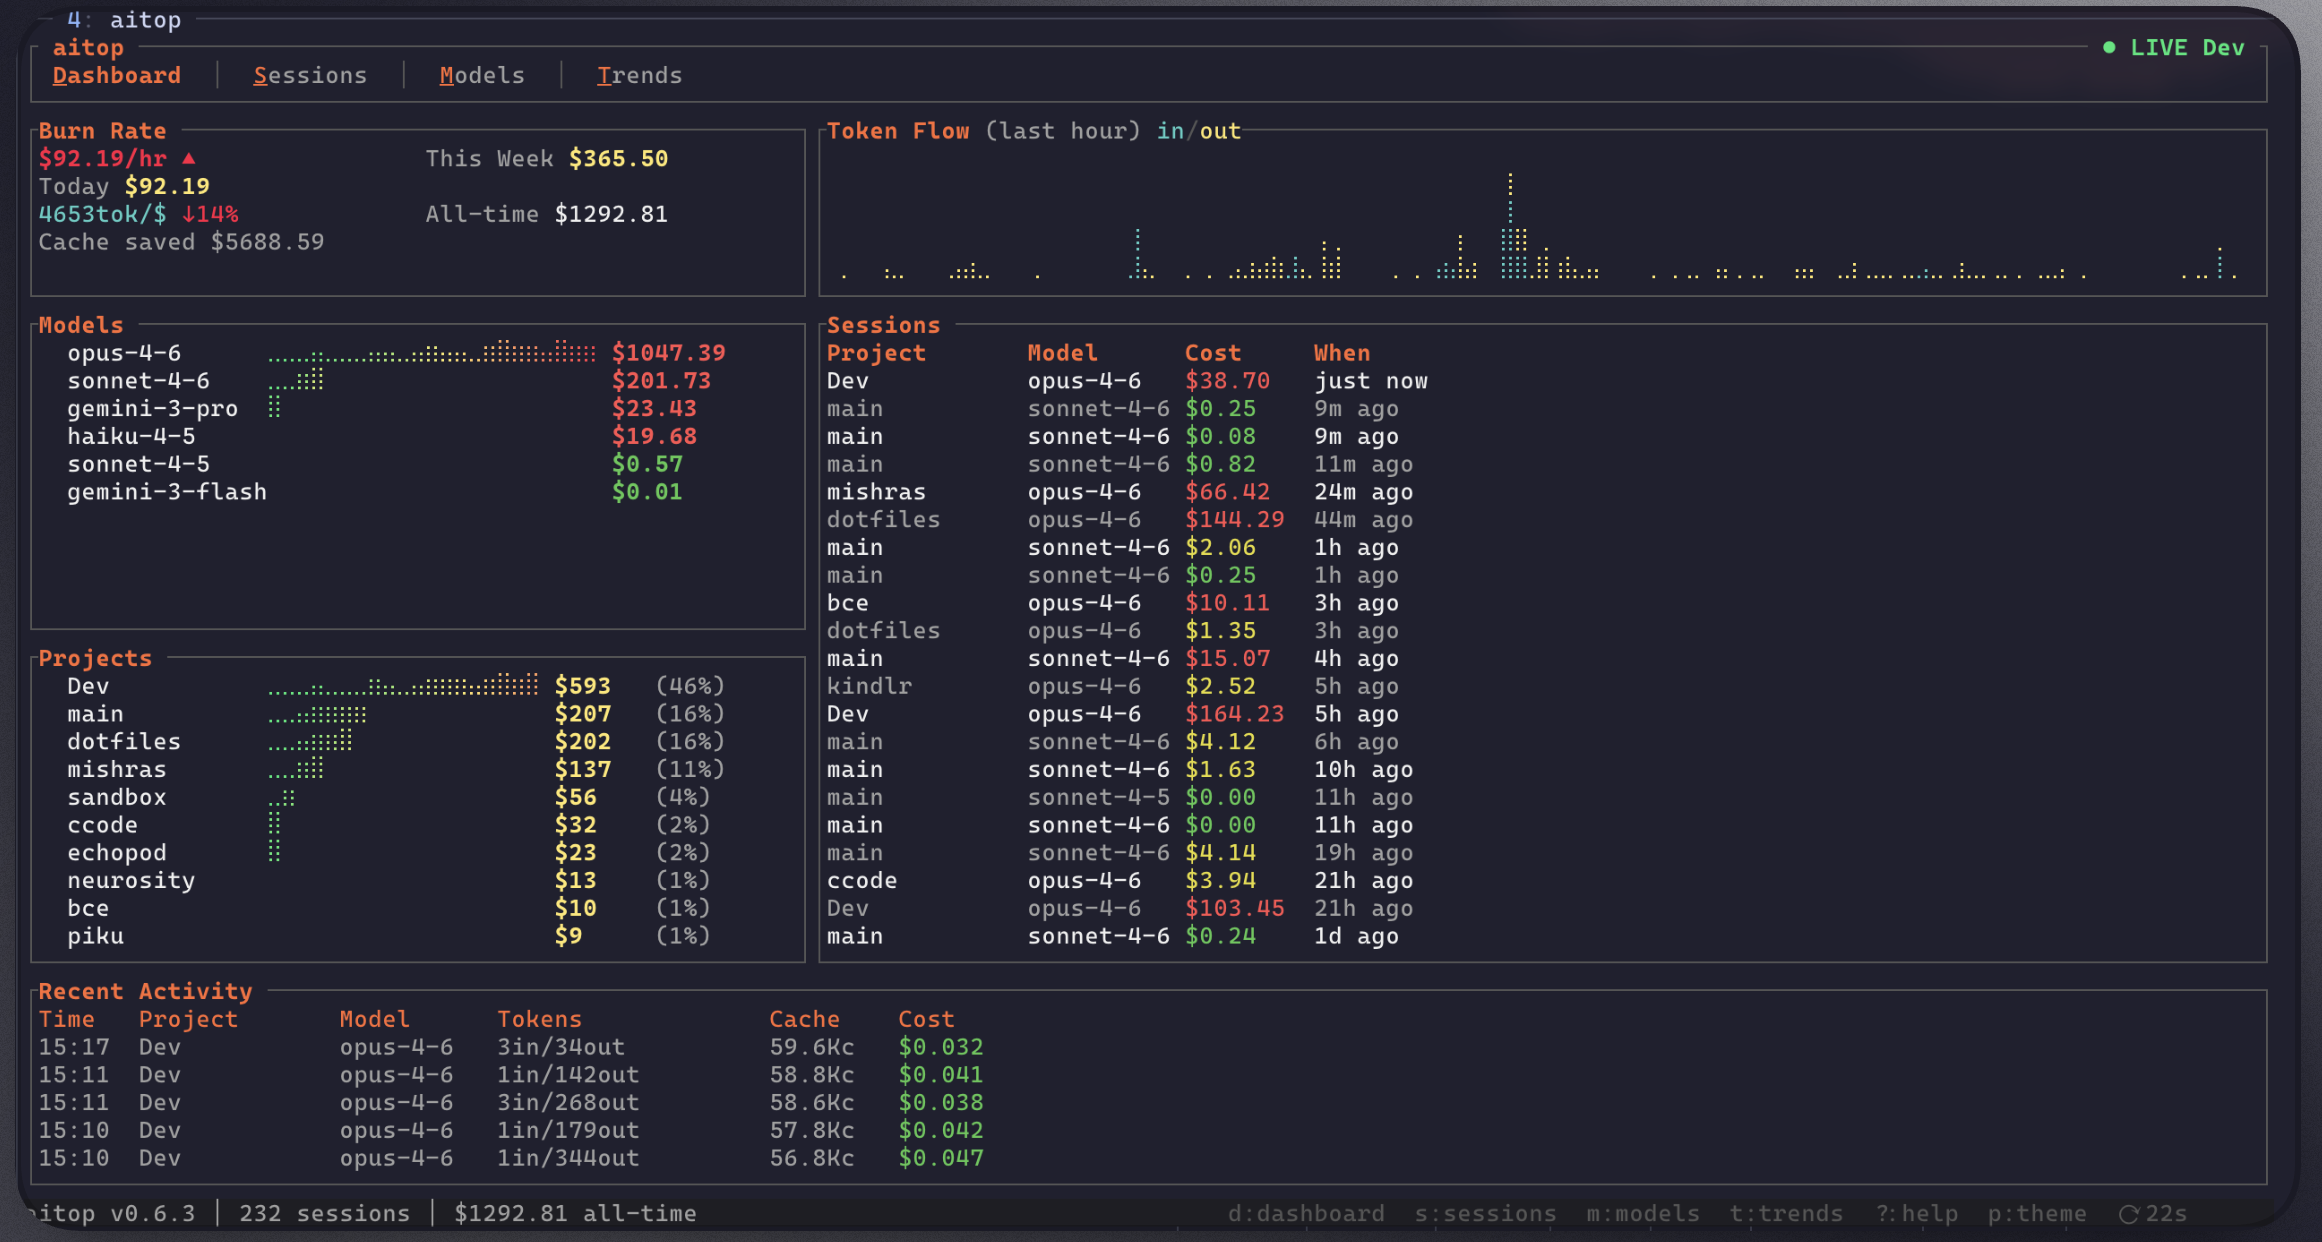
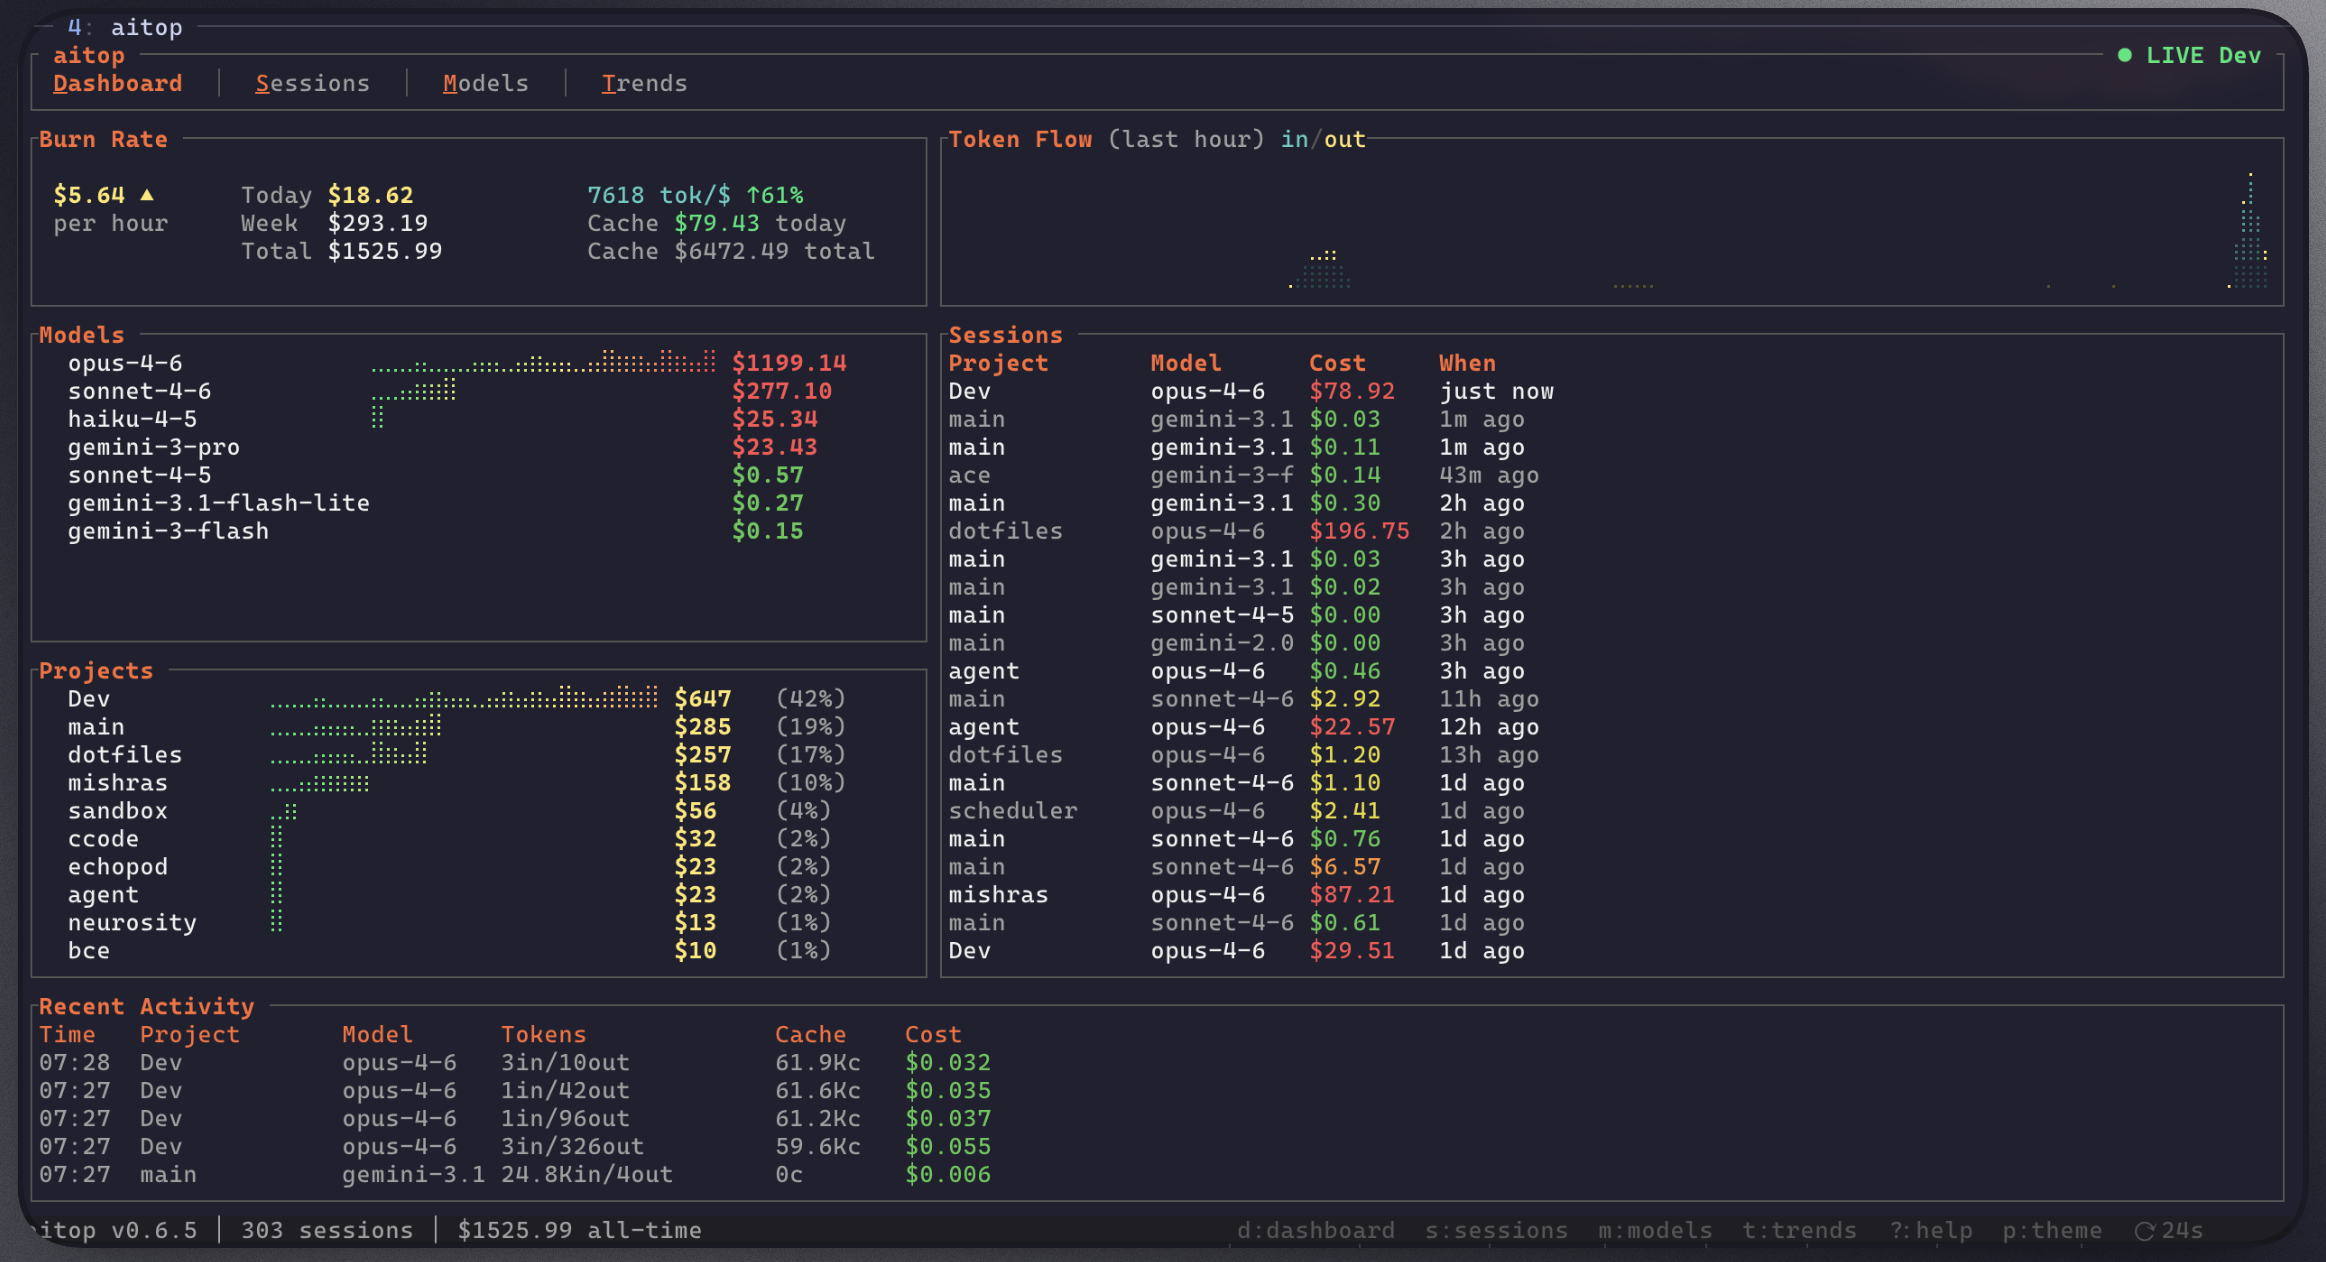
Redesign burn rate card, split cache savings today/total

diff --git a/src/ui/dashboard.rs b/src/ui/dashboard.rs
@@ -89,8 +89,8 @@ fn render_delta_banner(f: &mut Frame, state: &AppState, theme: &Theme, area: Rec
 
 fn render_metrics(f: &mut Frame, state: &AppState, theme: &Theme, area: ratatui::layout::Rect) {
     let stats = &state.dashboard;
+    let eff = &state.efficiency;
 
-    let burn_arrow = if stats.burn_rate_per_hour > 0.0 { "\u{25B2}" } else { "\u{00B7}" };
     let burn_color = if stats.burn_rate_per_hour > 10.0 {
         theme.danger
     } else if stats.burn_rate_per_hour > 5.0 {
@@ -107,33 +107,94 @@ fn render_metrics(f: &mut Frame, state: &AppState, theme: &Theme, area: ratatui:
     let inner = block.inner(area);
     f.render_widget(block, area);
 
+    // 3-column layout: hero burn rate | spend breakdown | efficiency
     let cols = Layout::default()
         .direction(Direction::Horizontal)
-        .constraints([Constraint::Percentage(50), Constraint::Percentage(50)])
+        .constraints([
+            Constraint::Length(13),     // burn rate hero
+            Constraint::Percentage(40), // spend grid
+            Constraint::Percentage(50), // efficiency (wider — cache values can be long)
+        ])
         .split(inner);
 
-    // Left: burn rate + efficiency
-    let eff = &state.efficiency;
-    let eff_arrow = if eff.efficiency_change_pct > 0.0 { "\u{2191}" } else if eff.efficiency_change_pct < 0.0 { "\u{2193}" } else { "" };
-    let eff_color = if eff.efficiency_change_pct >= 0.0 { theme.success } else { theme.danger };
-
-    let burn_text = vec![
+    // Column 1: Hero burn rate
+    let burn_arrow = if stats.burn_rate_per_hour > 0.0 { " \u{25B2}" } else { "" };
+    let hero = vec![
+        Line::from(""),
         Line::from(vec![
             Span::styled(
-                format!("${:.2}/hr {}", stats.burn_rate_per_hour, burn_arrow),
+                format!(" ${:.2}", stats.burn_rate_per_hour),
                 Style::default().fg(burn_color).add_modifier(Modifier::BOLD),
             ),
+            Span::styled(burn_arrow, Style::default().fg(burn_color)),
         ]),
         Line::from(vec![
-            Span::styled("Today ", Style::default().fg(theme.text_dim)),
+            Span::styled(" per hour", Style::default().fg(theme.text_dim)),
+        ]),
+    ];
+    f.render_widget(Paragraph::new(hero), cols[0]);
+
+    // Column 2: Spend breakdown (vertically centered)
+    let mut spend_lines = vec![
+        Line::from(""),
+        Line::from(vec![
+            Span::styled(" Today ", Style::default().fg(theme.text_dim)),
             Span::styled(
                 format!("${:.2}", stats.spend_today),
                 Style::default().fg(theme.tertiary).add_modifier(Modifier::BOLD),
             ),
         ]),
         Line::from(vec![
+            Span::styled(" Week  ", Style::default().fg(theme.text_dim)),
             Span::styled(
-                format!("{:.0}tok/$", eff.tokens_per_dollar),
+                format!("${:.2}", stats.spend_this_week),
+                Style::default().fg(theme.text),
+            ),
+        ]),
+    ];
+
+    if let Some(budget) = state.config.weekly_budget {
+        let pct = (stats.spend_this_week / budget).min(1.0);
+        let gauge_color = if pct < 0.60 {
+            theme.success
+        } else if pct < 0.85 {
+            theme.tertiary
+        } else {
+            theme.danger
+        };
+        let bar_total = 10usize;
+        let filled = ((pct * bar_total as f64) as usize).min(bar_total);
+        let empty = bar_total - filled;
+        spend_lines.push(Line::from(vec![
+            Span::styled(" ", Style::default()),
+            Span::styled("\u{2588}".repeat(filled), Style::default().fg(gauge_color)),
+            Span::styled("\u{2591}".repeat(empty), Style::default().fg(theme.bar_empty)),
+            Span::styled(
+                format!(" {:.0}%", pct * 100.0),
+                Style::default().fg(gauge_color),
+            ),
+        ]));
+    } else {
+        spend_lines.push(Line::from(vec![
+            Span::styled(" Total ", Style::default().fg(theme.text_dim)),
+            Span::styled(
+                format!("${:.2}", stats.spend_all_time),
+                Style::default().fg(theme.text),
+            ),
+        ]));
+    }
+
+    f.render_widget(Paragraph::new(spend_lines), cols[1]);
+
+    // Column 3: Efficiency stats
+    let eff_arrow = if eff.efficiency_change_pct > 0.0 { "\u{2191}" } else if eff.efficiency_change_pct < 0.0 { "\u{2193}" } else { "" };
+    let eff_color = if eff.efficiency_change_pct >= 0.0 { theme.success } else { theme.danger };
+
+    let eff_lines = vec![
+        Line::from(""),
+        Line::from(vec![
+            Span::styled(
+                format!(" {:.0} tok/$", eff.tokens_per_dollar),
                 Style::default().fg(theme.secondary),
             ),
             Span::styled(
@@ -146,62 +207,23 @@ fn render_metrics(f: &mut Frame, state: &AppState, theme: &Theme, area: ratatui:
             ),
         ]),
         Line::from(vec![
+            Span::styled(" Cache ", Style::default().fg(theme.text_dim)),
             Span::styled(
-                format!("Cache saved ${:.2}", eff.cache_savings_usd),
+                format!("${:.2}", eff.cache_savings_today),
+                Style::default().fg(theme.success),
+            ),
+            Span::styled(" today", Style::default().fg(theme.text_dim)),
+        ]),
+        Line::from(vec![
+            Span::styled(" Cache ", Style::default().fg(theme.text_dim)),
+            Span::styled(
+                format!("${:.2}", eff.cache_savings_alltime),
                 Style::default().fg(theme.text_dim),
             ),
+            Span::styled(" total", Style::default().fg(theme.text_dim)),
         ]),
     ];
-    f.render_widget(Paragraph::new(burn_text), cols[0]);
-
-    // Right: week spend + budget gauge
-    let mut right_lines = vec![
-        Line::from(vec![
-            Span::styled("This Week ", Style::default().fg(theme.text_dim)),
-            Span::styled(
-                format!("${:.2}", stats.spend_this_week),
-                Style::default().fg(theme.tertiary).add_modifier(Modifier::BOLD),
-            ),
-        ]),
-        Line::from(""),
-    ];
-
-    if let Some(budget) = state.config.weekly_budget {
-        let pct = (stats.spend_this_week / budget).min(1.0);
-        let pct_int = (pct * 100.0) as u16;
-        let gauge_color = if pct < 0.60 {
-            theme.success
-        } else if pct < 0.85 {
-            theme.tertiary
-        } else {
-            theme.danger
-        };
-
-        let bar_total = 12usize;
-        let filled = ((pct * bar_total as f64) as usize).min(bar_total);
-        let empty = bar_total - filled;
-        let bar_filled: String = "\u{2588}".repeat(filled);
-        let bar_empty: String = "\u{2591}".repeat(empty);
-
-        right_lines.push(Line::from(vec![
-            Span::styled("Budget ", Style::default().fg(theme.text_dim)),
-            Span::styled(bar_filled, Style::default().fg(gauge_color)),
-            Span::styled(bar_empty, Style::default().fg(theme.bar_empty)),
-            Span::styled(
-                format!(" {}% (${:.0} / ${:.0})", pct_int, stats.spend_this_week, budget),
-                Style::default().fg(gauge_color),
-            ),
-        ]));
-    } else {
-        right_lines.push(Line::from(vec![
-            Span::styled("All-time ", Style::default().fg(theme.text_dim)),
-            Span::styled(
-                format!("${:.2}", stats.spend_all_time),
-                Style::default().fg(theme.text)),
-        ]));
-    }
-
-    f.render_widget(Paragraph::new(right_lines), cols[1]);
+    f.render_widget(Paragraph::new(eff_lines), cols[2]);
 }
 
 fn render_token_flow(f: &mut Frame, state: &AppState, theme: &Theme, area: Rect) {
@@ -261,9 +283,13 @@ fn render_token_flow(f: &mut Frame, state: &AppState, theme: &Theme, area: Rect)
         data[i].1 * (1.0 - t) + data[i + 1].1 * t
     };
 
-    // Pre-compute stacked heights per character column: (input_h, total_h)
-    let mut col_info: Vec<(usize, usize)> = vec![(0, 0); w];
+    // Pre-compute stacked heights per character column: (input_share, total_h)
+    // input_share is the fraction of total that is input (0.0–1.0)
+    let mut col_info: Vec<(f64, usize)> = vec![(0.0, 0); w];
     for (char_col, info) in col_info.iter_mut().enumerate() {
+        let mut max_total = 0usize;
+        let mut sum_iv = 0.0f64;
+        let mut sum_total = 0.0f64;
         for dc in 0..2 {
             let x = char_col * 2 + dc;
             if x >= dot_cols { continue; }
@@ -271,9 +297,12 @@ fn render_token_flow(f: &mut Frame, state: &AppState, theme: &Theme, area: Rect)
             let ov = interpolate(&chart_data.output_data, x);
             let ih = (iv / y_max * dot_rows as f64).round() as usize;
             let oh = (ov / y_max * dot_rows as f64).round() as usize;
-            info.0 = info.0.max(ih);
-            info.1 = info.1.max(ih + oh);
+            max_total = max_total.max(ih + oh);
+            sum_iv += iv;
+            sum_total += iv + ov;
         }
+        info.0 = if sum_total > 0.0 { sum_iv / sum_total } else { 0.0 };
+        info.1 = max_total;
     }
 
     let dot_bits: [[u16; 4]; 2] = [
@@ -284,7 +313,7 @@ fn render_token_flow(f: &mut Frame, state: &AppState, theme: &Theme, area: Rect)
     let mut lines = Vec::with_capacity(h);
     for char_row in 0..h {
         let mut spans = Vec::new();
-        for (char_col, &(input_h, total_h)) in col_info.iter().enumerate() {
+        for (char_col, &(input_share, total_h)) in col_info.iter().enumerate() {
             let mut braille: u16 = 0x2800;
             let mut has_data = false;
 
@@ -308,15 +337,16 @@ fn render_token_flow(f: &mut Frame, state: &AppState, theme: &Theme, area: Rect)
 
             let ch = char::from_u32(braille as u32).unwrap_or(' ');
             let color = if has_data {
-                let cell_center = dot_rows.saturating_sub(char_row * 4 + 2);
-                // Input region (bottom) = teal, output region (top) = gold
-                let (base_color, region_bot, region_h) = if cell_center < input_h {
-                    (theme.secondary, 0, input_h)
+                // Color boundary based on actual input share of total
+                let cell_bottom = dot_rows.saturating_sub((char_row + 1) * 4);
+                let input_boundary = (input_share * total_h as f64).round() as usize;
+                let cell_center = cell_bottom + 2;
+                let (base_color, region_bot, region_h) = if cell_center < input_boundary {
+                    (theme.secondary, 0, input_boundary)
                 } else {
-                    (theme.tertiary, input_h, total_h.saturating_sub(input_h))
+                    (theme.tertiary, input_boundary, total_h.saturating_sub(input_boundary))
                 };
                 // Brightness gradient within region: dim at bottom, bright at top
-                let cell_bottom = dot_rows.saturating_sub((char_row + 1) * 4);
                 let pos = cell_bottom.saturating_sub(region_bot);
                 let t = if region_h > 0 { (pos as f64 / region_h as f64).clamp(0.0, 1.0) } else { 1.0 };
                 dim_color(base_color, 0.35 + t * 0.65)

diff --git a/src/data/aggregator.rs b/src/data/aggregator.rs
@@ -119,7 +119,8 @@ pub struct EfficiencyStats {
     pub tokens_per_dollar: f64,
     pub tokens_per_dollar_last_week: f64,
     pub efficiency_change_pct: f64,
-    pub cache_savings_usd: f64,
+    pub cache_savings_today: f64,
+    pub cache_savings_alltime: f64,
 }
 
 /// Daily token count for the token overlay in trends.
@@ -602,28 +603,42 @@ impl Aggregator {
         };
 
         // Cache savings: compute per-model using the pricing registry
-        let mut cache_stmt = self.conn.prepare(
-            "SELECT COALESCE(model, 'unknown'), COALESCE(SUM(cache_read), 0)
-             FROM messages
-             WHERE model IS NOT NULL
-             GROUP BY model",
-        )?;
-        let cache_rows = cache_stmt
-            .query_map([], |row| {
+        let compute_cache_savings = |filter: &str| -> f64 {
+            let sql = format!(
+                "SELECT COALESCE(model, 'unknown'), COALESCE(SUM(cache_read), 0)
+                 FROM messages_local
+                 WHERE model IS NOT NULL {filter}
+                 GROUP BY model"
+            );
+            let mut stmt = match self.conn.prepare(&sql) {
+                Ok(s) => s,
+                Err(_) => return 0.0,
+            };
+            let rows = match stmt.query_map([], |row| {
                 Ok((row.get::<_, String>(0)?, row.get::<_, i64>(1)?))
-            })?;
-        let mut cache_savings = 0.0;
-        for row in cache_rows.flatten() {
-            let (model, cache_read) = row;
-            let price = self.pricing.lookup(&model);
-            cache_savings += cache_read as f64 * (price.input - price.cache_read) / 1_000_000.0;
-        }
+            }) {
+                Ok(r) => r,
+                Err(_) => return 0.0,
+            };
+            let mut total = 0.0;
+            for row in rows.flatten() {
+                let (model, cache_read) = row;
+                let price = self.pricing.lookup(&model);
+                total += cache_read as f64 * (price.input - price.cache_read) / 1_000_000.0;
+            }
+            total
+        };
+
+        let today = self.date_now();
+        let cache_today = compute_cache_savings(&format!("AND dt = {today}"));
+        let cache_alltime = compute_cache_savings("");
 
         Ok(EfficiencyStats {
             tokens_per_dollar,
             tokens_per_dollar_last_week,
             efficiency_change_pct,
-            cache_savings_usd: cache_savings,
+            cache_savings_today: cache_today,
+            cache_savings_alltime: cache_alltime,
         })
     }
 

diff --git a/src/ui/layout.rs b/src/ui/layout.rs
@@ -111,12 +111,12 @@ pub fn dashboard_layout(area: Rect, tier: LayoutTier) -> DashboardAreas {
 
             let top = Layout::default()
                 .direction(Direction::Horizontal)
-                .constraints([Constraint::Percentage(35), Constraint::Percentage(65)])
+                .constraints([Constraint::Percentage(40), Constraint::Percentage(60)])
                 .split(vert[0]);
 
             let mid = Layout::default()
                 .direction(Direction::Horizontal)
-                .constraints([Constraint::Percentage(35), Constraint::Percentage(65)])
+                .constraints([Constraint::Percentage(40), Constraint::Percentage(60)])
                 .split(vert[1]);
 
             DashboardAreas {
@@ -141,7 +141,7 @@ pub fn dashboard_layout(area: Rect, tier: LayoutTier) -> DashboardAreas {
 
             let top = Layout::default()
                 .direction(Direction::Horizontal)
-                .constraints([Constraint::Percentage(40), Constraint::Percentage(60)])
+                .constraints([Constraint::Percentage(50), Constraint::Percentage(50)])
                 .split(vert[0]);
 
             DashboardAreas {
